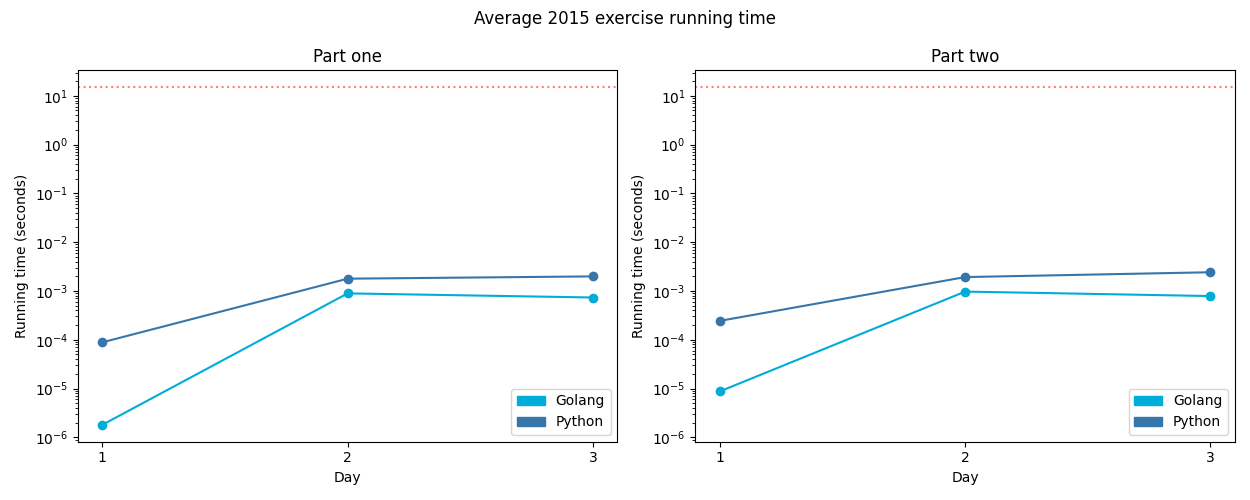
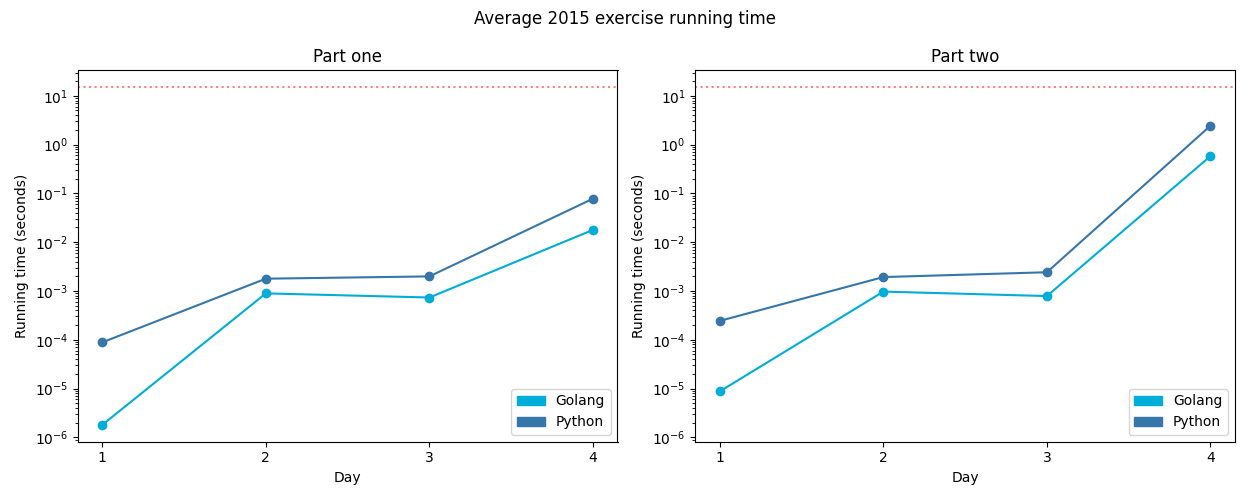
doc: update exercise results

diff --git a/exercises/2015/04-theIdealStockingStuffer/go/exercise.go b/exercises/2015/04-theIdealStockingStuffer/go/exercise.go
@@ -1,7 +1,7 @@
 package exercises
 
 import (
-	"crypto/md5"
+	"crypto/md5" //nolint:gosec // md5 is not used for security
 	"encoding/hex"
 	"strconv"
 

diff --git a/exercises/2015/README.md b/exercises/2015/README.md
@@ -9,7 +9,7 @@
 | [Day 1: Not Quite Lisp][rm1]                         |  ★ ★  | [Go][g1], [Python][p1] |
 | [Day 2: I Was Told There Would Be No Math][rm2]      |  ★ ★  | [Go][g2], [Python][p2] |
 | [Day 3: Perfectly Spherical Houses In A Vacuum][rm3] |  ★ ★  | [Go][g3], [Python][p3] |
-| 4                                                    |  ☆ ☆  |                        |
+| [Day 4: The Ideal Stocking Stuffer][rm4]             |  ★ ★  | [Go][g4], [Python][p4] |
 | 5                                                    |  ☆ ☆  |                        |
 | 6                                                    |  ☆ ☆  |                        |
 | 7                                                    |  ☆ ☆  |                        |
@@ -45,3 +45,6 @@
 [rm3]: 03-perfectlySphericalHousesInAVacuum/README.md
 [g3]: 03-perfectlySphericalHousesInAVacuum/go
 [p3]: 03-perfectlySphericalHousesInAVacuum/py
+[rm4]: 04-theIdealStockingStuffer/README.md
+[g4]: 04-theIdealStockingStuffer/go
+[p4]: 04-theIdealStockingStuffer/py

diff --git a/exercises/2015/04-theIdealStockingStuffer/README.md b/exercises/2015/04-theIdealStockingStuffer/README.md
@@ -1,0 +1,45 @@
+# [Day 4: The Ideal Stocking Stuffer](https://adventofcode.com/2015/day/4)
+
+<!-- These are helper text to make formatting the yearly readme consistent and easier...
+
+[Day 4: The Ideal Stocking Stuffer][rm4]
+[Go][g4]
+[Python][p4]
+
+[rm4]: 04-theIdealStockingStuffer/README.md
+[g4]: 04-theIdealStockingStuffer/go
+[p4]: 04-theIdealStockingStuffer/py
+
+-->
+
+## Go
+
+```text
+2015-4 The Ideal Stocking Stuffer (Golang)
+
+Running...
+
+Test 1.0: pass in 89 ms
+Test 1.1: pass in 156 ms
+Test 2.0: empty
+Part 1: 117946 in 18.7 ms
+Part 2: 3938038 in 603.5 ms
+```
+
+## Python
+
+```text
+2015-4 The Ideal Stocking Stuffer (Python)
+
+Running...
+
+Test 1.0: pass in 380.2 ms
+Test 1.1: pass in 720.9 ms
+Test 2.0: empty
+Part 1: 117946 in 75.6 ms
+Part 2: 3938038 in 2.4 s
+```
+
+## 2015 Run Times
+
+![2015 exercise run-time graphs](../run-times.png)
